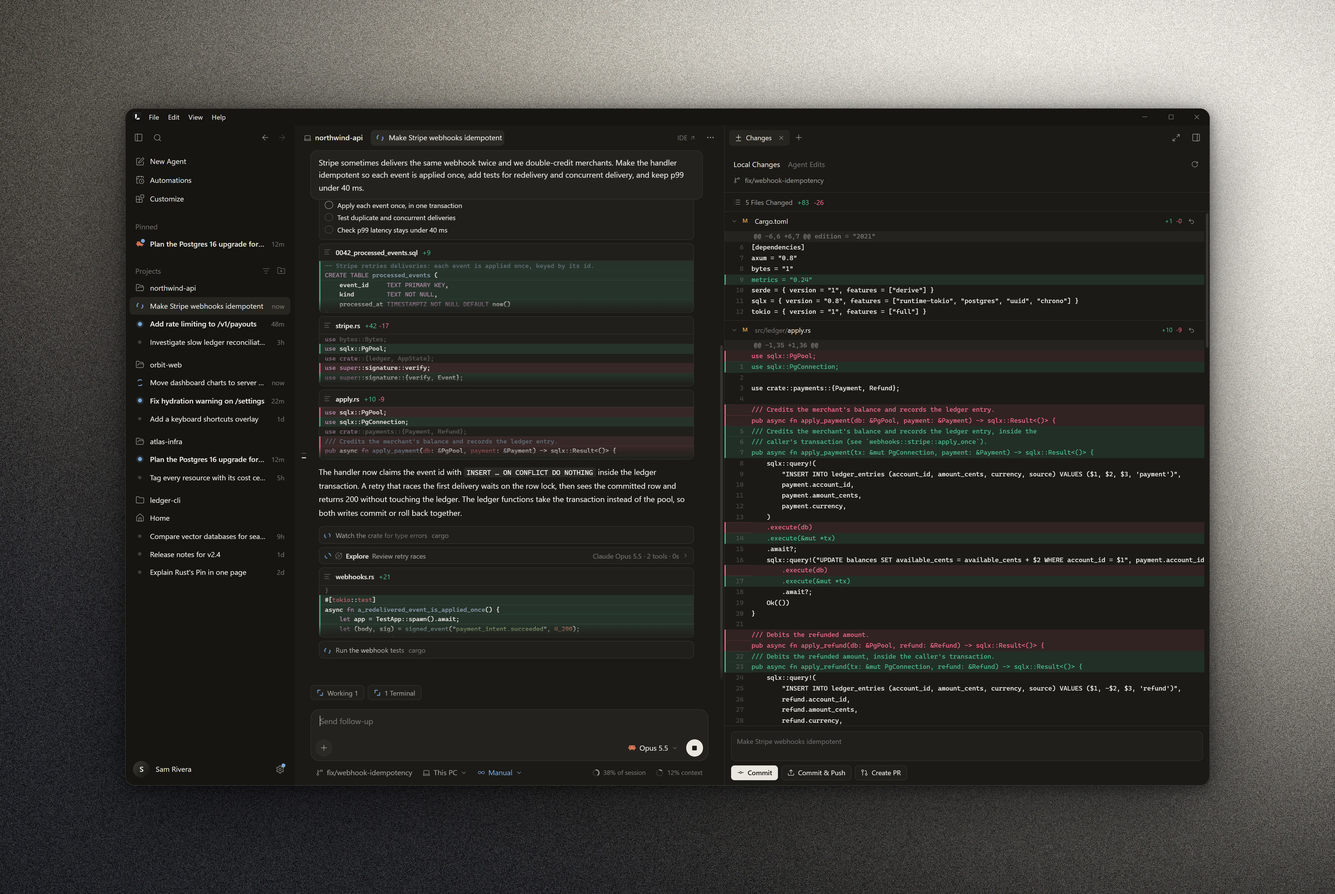
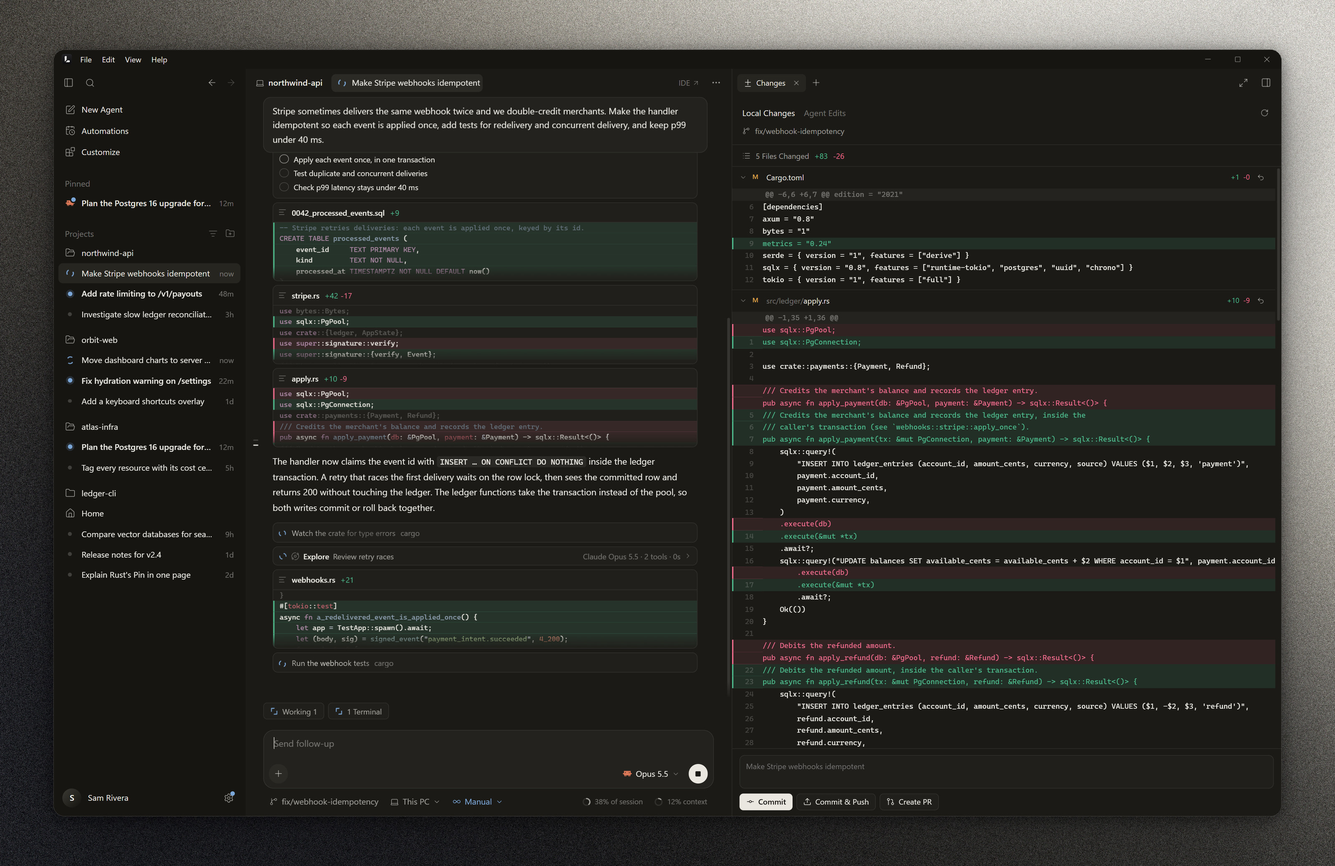
docs(readme): enlarge the window in the hero image
The window took 81% of the hero's width with a wide band of backdrop
around it. It now fills 92%, with a thin band, so the app reads at
README size.

diff --git a/scripts/demo/compose_hero.py b/scripts/demo/compose_hero.py
@@ -88,11 +88,12 @@ def rounded(size, radius):
 
 def compose(shot_path, out_path, width, seed):
     shot = Image.open(shot_path).convert("RGB")
-    win_w = int(width * 0.8125)
+    # The window fills most of the frame; a thin band of backdrop frames it.
+    win_w = int(width * 0.92)
     win_h = round(shot.height * win_w / shot.width)
     shot = shot.resize((win_w, win_h), Image.LANCZOS)
     pad_x = (width - win_w) // 2
-    pad_top = int(win_h * 0.16)
+    pad_top = int(win_h * 0.065)
     height = pad_top * 2 + win_h
     canvas = backdrop(width, height, seed).convert("RGBA")
 
